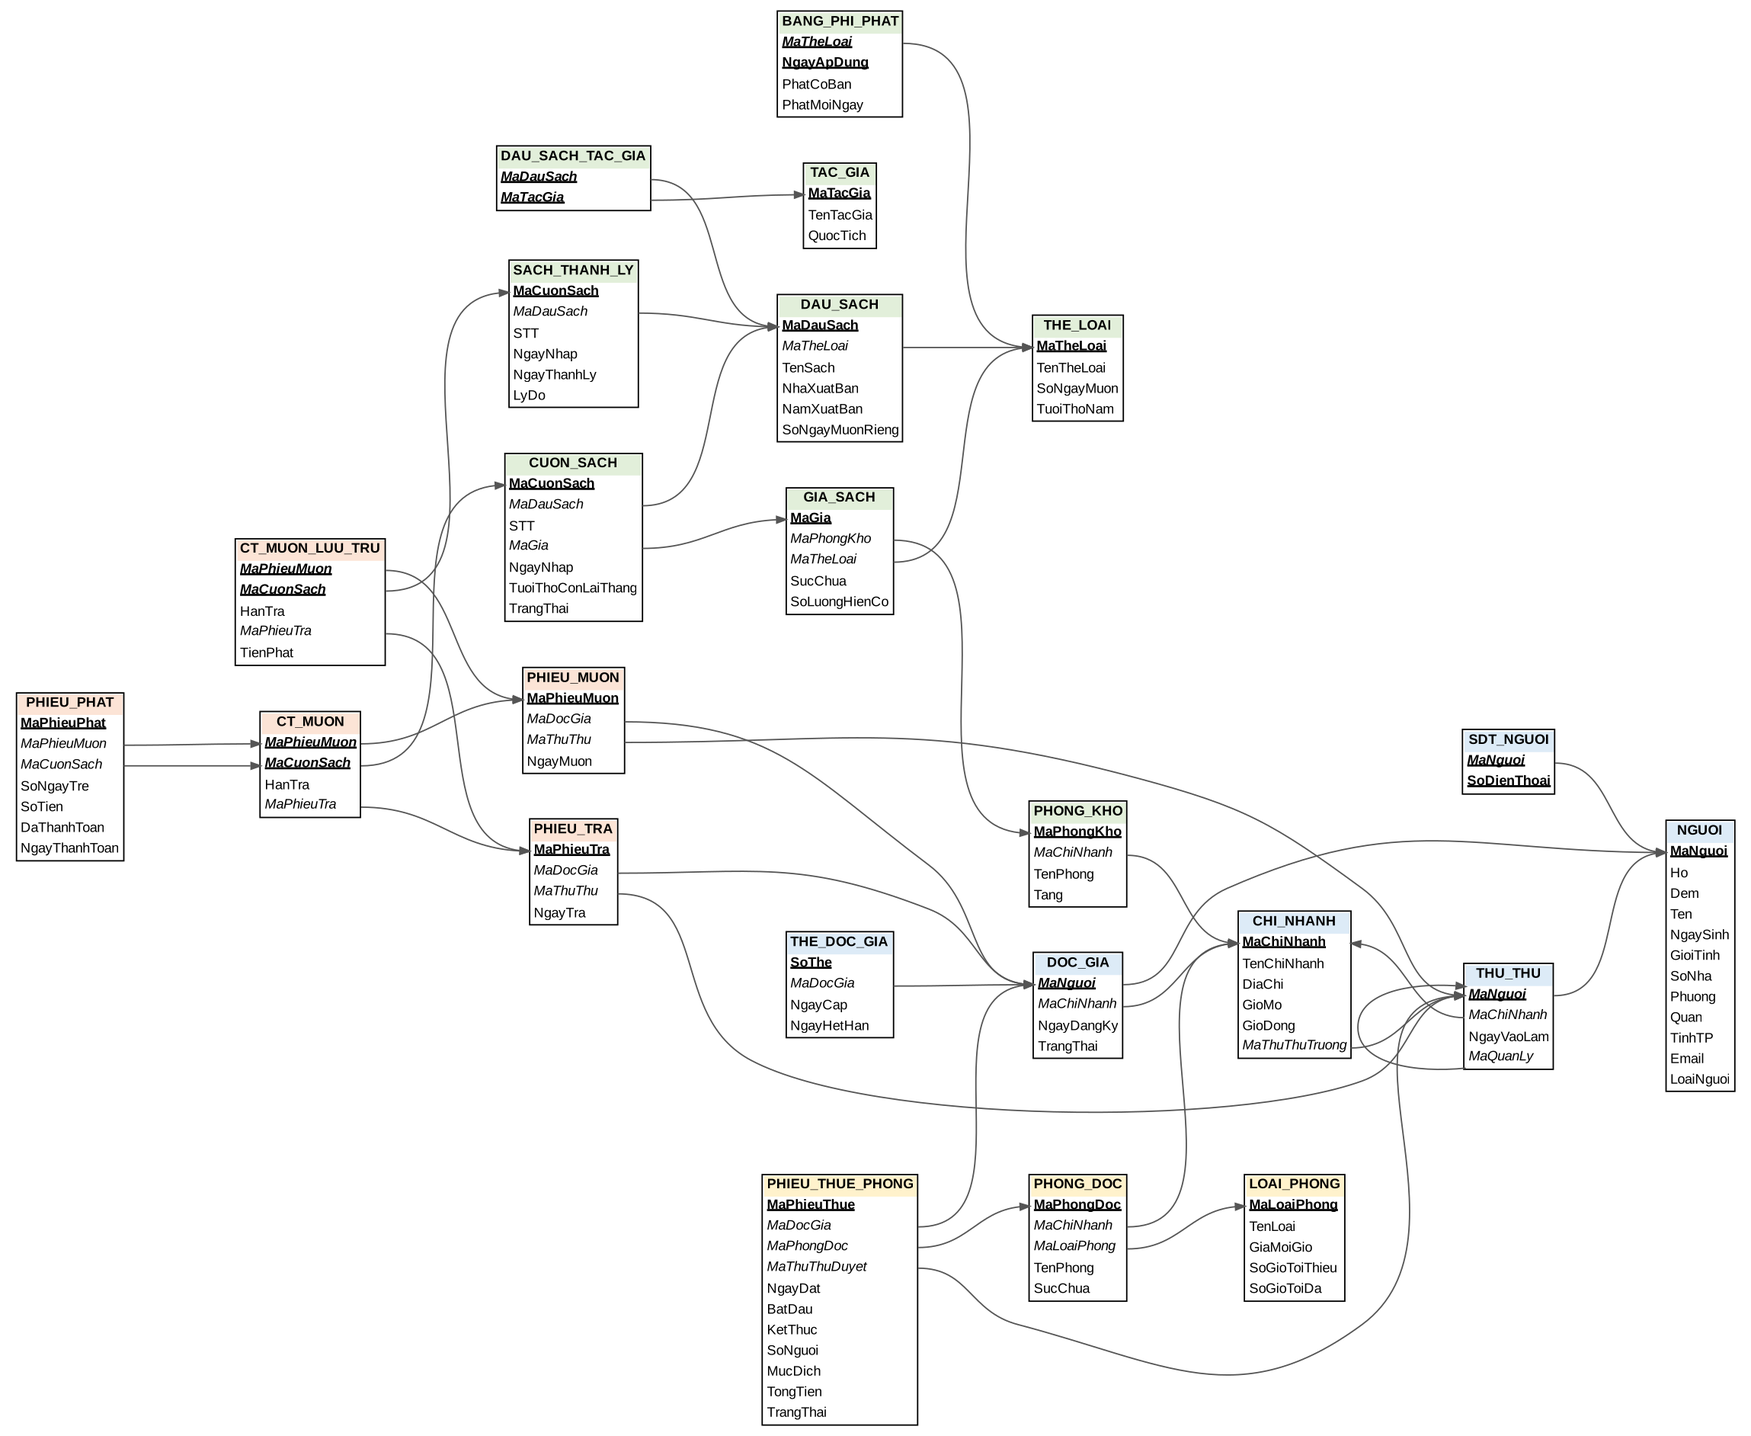
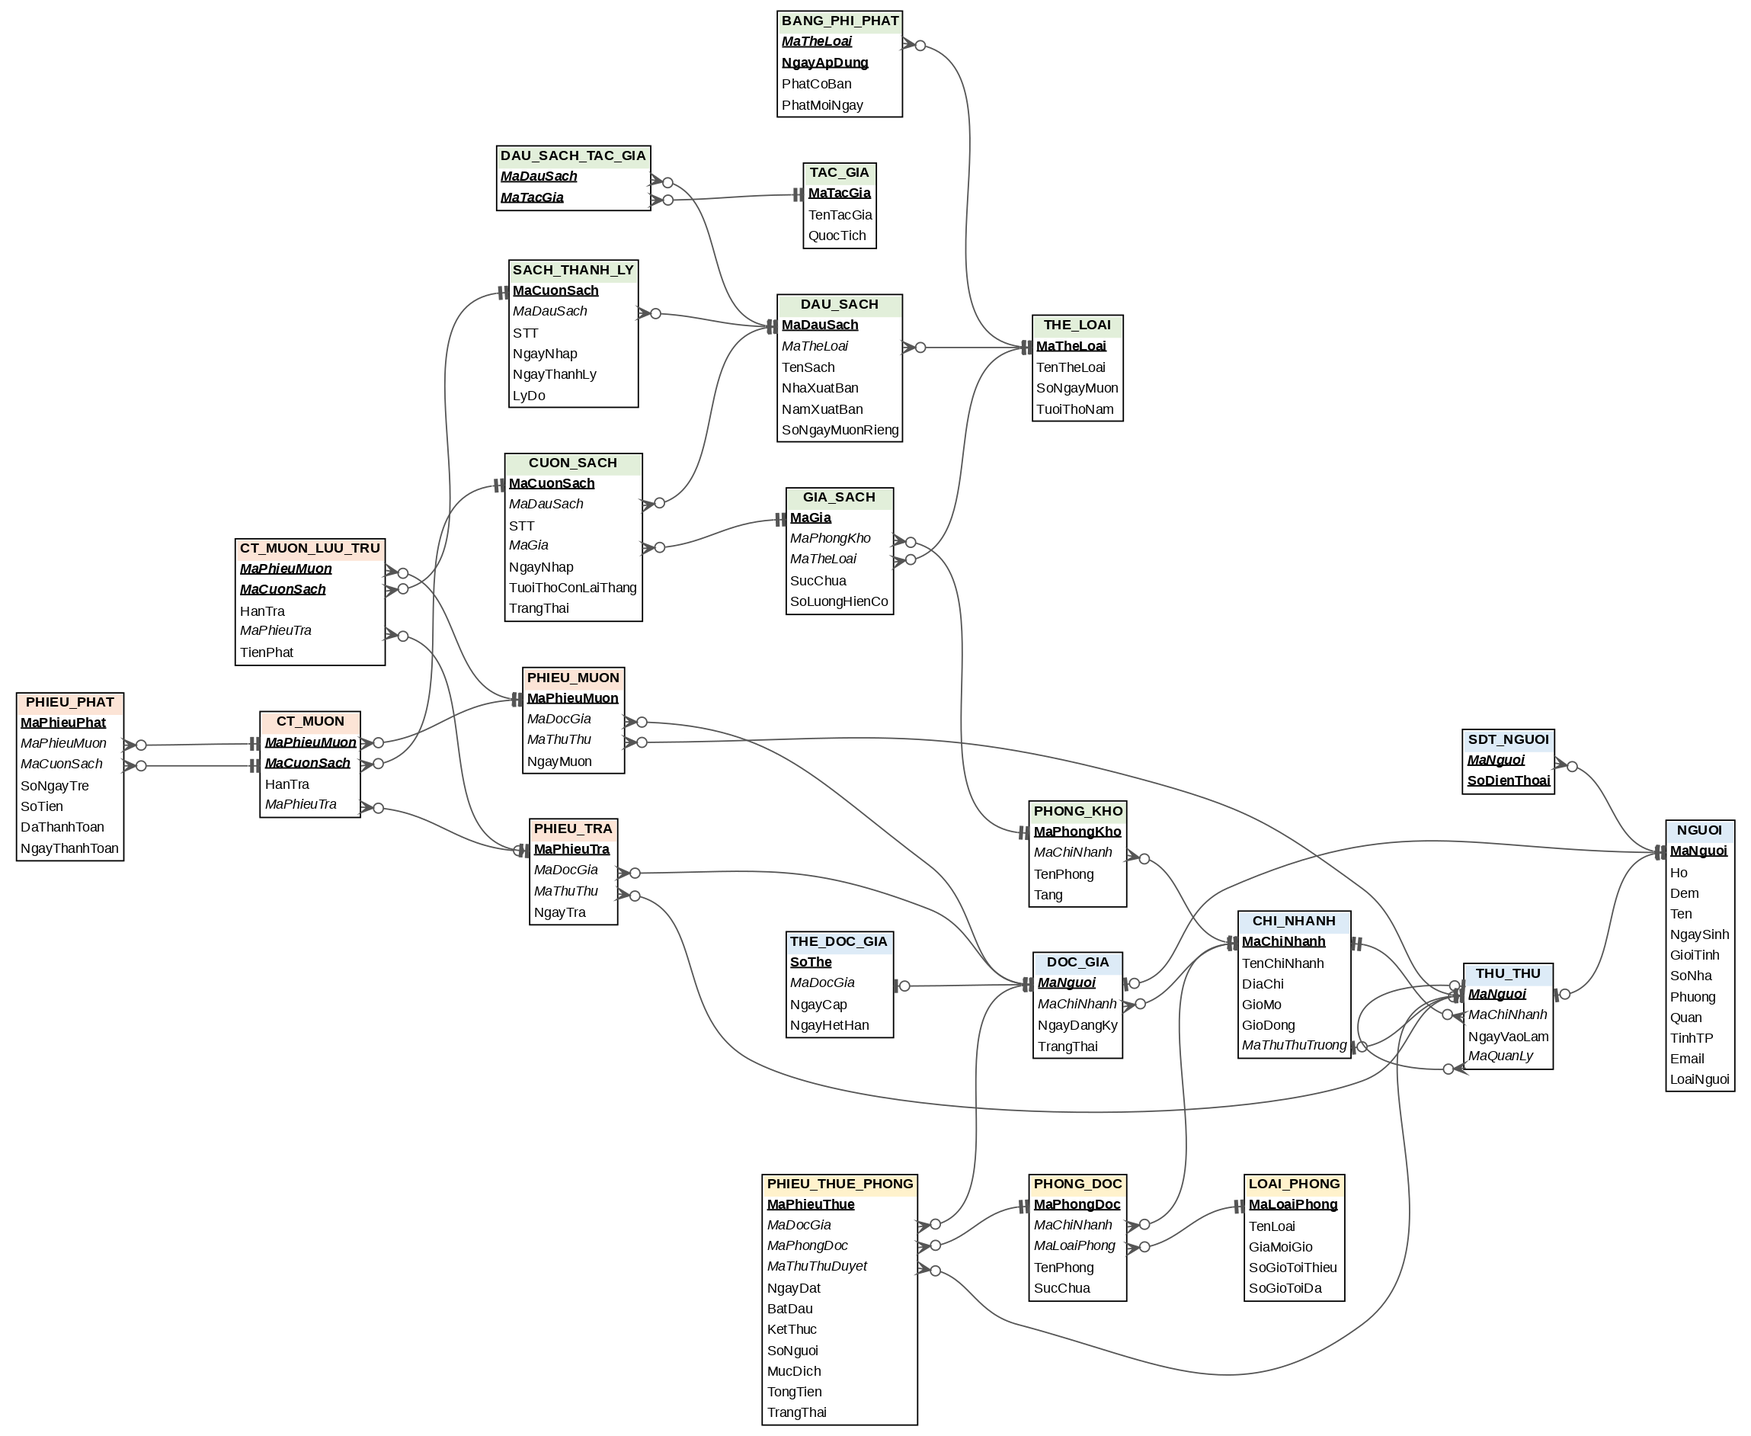
Sơ đồ: dùng ký hiệu chân gà (min..max) cho các đường nối
- ERD (ký hiệu Chen): mỗi đầu đường nối có ký hiệu 0..1, 1, 0..N, 1..N đặt sát thực thể;
  tham gia toàn bộ thể hiện bằng min = 1 ở đầu bên kia, bỏ nhãn chữ 1/N/M; giữ đường đôi cho ISA
- Ghi kèm giới hạn: tối đa 10 cuốn/phiếu (gom_sach), tối đa 50 cuốn/độc giả (giu_sach)
- Sơ đồ lược đồ quan hệ: cạnh FK → PK dùng chân gà suy ra từ UNIQUE và NULL trong information_schema
- P1: mô tả ký hiệu mới; sửa mô tả cột MaThuThuTruong (UNIQUE, tạm NULL do khóa ngoại vòng)

diff --git a/ma_nguon/erd/gen_erd.py b/ma_nguon/erd/gen_erd.py
@@ -28,8 +28,21 @@ def rel(name, label, ident=False):
     E.append(f'{name} [shape=diamond, style=filled, fillcolor="#FFE699", label="{label}"'
              + (", peripheries=2" if ident else "") + "];")
 
-def link(a, b, card="", total=False):
-    L.append(f'{a} -- {b} [label="{card}"' + (', color="black:white:black"' if total else "") + "];")
+# Ký hiệu chân gà (min..max) đặt ở đầu đường nối sát thực thể, đọc ngang qua liên kết:
+# số thực thể phía này ứng với MỘT thực thể phía bên kia. Graphviz: hình đầu tiên nằm sát node.
+CHAN_GA = {"0..1": "teeodot", "1": "teetee", "0..N": "crowodot", "1..N": "crowtee"}
+
+def link(a, b, card="", total=False, dau=None, cuoi=None, nhan_dau="", nhan_cuoi=""):
+    """Nối a -- b; dau/cuoi = ký hiệu chân gà ở đầu a / đầu b; total = đường đôi (tham gia toàn bộ)."""
+    opt = [f'label="{card}"'] if card else []
+    if dau or cuoi:
+        opt.append("dir=" + ("both" if dau and cuoi else "back" if dau else "forward"))
+        if dau: opt.append(f"arrowtail={CHAN_GA[dau]}")
+        if cuoi: opt.append(f"arrowhead={CHAN_GA[cuoi]}")
+    if nhan_dau: opt.append(f'taillabel="{nhan_dau}"')
+    if nhan_cuoi: opt.append(f'headlabel="{nhan_cuoi}"')
+    if total: opt.append('color="black:white:black"')
+    L.append(f"{a} -- {b}" + (f" [{', '.join(opt)}]" if opt else "") + ";")
 
 # ---- entities + attributes
 ent("CHI_NHANH"); attr("CHI_NHANH", "MaChiNhanh", key=True)
@@ -66,46 +79,51 @@ ent("PHONG_DOC"); attr("PHONG_DOC", "MaPhongDoc", key=True); attr("PHONG_DOC", "
 E.append('ISA [shape=invtriangle, style=filled, fillcolor="#FFFF00", label="ISA\\nd"];')
 link("NGUOI", "ISA", total=True); link("ISA", "DOC_GIA"); link("ISA", "THU_THU")
 
-# ---- relationships
+# ---- liên kết hai ngôi: (thực thể, ký hiệu ở đầu thực thể đó, nhãn vai trò)
+# Tham gia toàn bộ của A thể hiện bằng min = 1 ở ký hiệu đầu bên kia (vạch thay vì vòng tròn), không vẽ đường đôi.
 R = [
- ("r_truong", "truong_chi_nhanh", False, ("THU_THU", "1", False), ("CHI_NHANH", "1", True)),
- ("r_lamviec", "lam_viec_tai", False, ("THU_THU", "N", True), ("CHI_NHANH", "1", False)),
- ("r_quanly", "quan_ly", False, ("THU_THU", "1\\nquản lý", False), ("THU_THU", "N\\nnhân viên", False)),
- ("r_dangky", "dang_ky_tai", False, ("DOC_GIA", "N", True), ("CHI_NHANH", "1", False)),
- ("r_the", "so_huu_the", False, ("DOC_GIA", "1", True), ("THE_DOC_GIA", "1", True)),
- ("r_theloai", "thuoc_the_loai", False, ("DAU_SACH", "N", True), ("THE_LOAI", "1", False)),
- ("r_phi", "ap_dung_phi", True, ("THE_LOAI", "1", False), ("BANG_PHI_PHAT", "N", True)),
- ("r_viet", "viet", False, ("DAU_SACH", "N", False), ("TAC_GIA", "M", False)),
- ("r_gomcuon", "gom_cuon", True, ("DAU_SACH", "1", False), ("CUON_SACH", "N", True)),
- ("r_dattai", "dat_tai", False, ("CUON_SACH", "N", True), ("GIA_SACH", "1", False)),
- ("r_chuatl", "chua_the_loai", False, ("GIA_SACH", "N", True), ("THE_LOAI", "1", False)),
- ("r_namtrong", "nam_trong", False, ("GIA_SACH", "N", True), ("PHONG_KHO", "1", False)),
- ("r_khocn", "thuoc_chi_nhanh", False, ("PHONG_KHO", "N", True), ("CHI_NHANH", "1", False)),
- ("r_lapmuon", "lap_phieu_muon", False, ("THU_THU", "1", False), ("PHIEU_MUON", "N", True)),
- ("r_muonboi", "muon_boi", False, ("DOC_GIA", "1", False), ("PHIEU_MUON", "N", True)),
- ("r_lap_tra", "lap_phieu_tra", False, ("THU_THU", "1", False), ("PHIEU_TRA", "N", True)),
- ("r_traboi", "tra_boi", False, ("DOC_GIA", "1", False), ("PHIEU_TRA", "N", True)),
- ("r_loaiphong", "thuoc_loai", False, ("PHONG_DOC", "N", True), ("LOAI_PHONG", "1", False)),
- ("r_phongcn", "phong_cua", False, ("PHONG_DOC", "N", True), ("CHI_NHANH", "1", False)),
- ("r_tl", "thanh_ly_tu", False, ("SACH_THANH_LY", "N", True), ("DAU_SACH", "1", False)),
+ ("r_truong", "truong_chi_nhanh", False, ("THU_THU", "1"), ("CHI_NHANH", "0..1")),
+ ("r_lamviec", "lam_viec_tai", False, ("THU_THU", "1..N"), ("CHI_NHANH", "1")),
+ ("r_quanly", "quan_ly", False, ("THU_THU", "0..1"), ("THU_THU", "0..N")),   # vai trò ghi ở giữa hai nhánh, xem dưới
+ ("r_dangky", "dang_ky_tai", False, ("DOC_GIA", "0..N"), ("CHI_NHANH", "1")),
+ ("r_the", "so_huu_the", False, ("DOC_GIA", "1"), ("THE_DOC_GIA", "1")),
+ ("r_theloai", "thuoc_the_loai", False, ("DAU_SACH", "0..N"), ("THE_LOAI", "1")),
+ ("r_phi", "ap_dung_phi", True, ("THE_LOAI", "1"), ("BANG_PHI_PHAT", "1..N")),
+ ("r_viet", "viet", False, ("DAU_SACH", "1..N"), ("TAC_GIA", "0..N")),
+ ("r_gomcuon", "gom_cuon", True, ("DAU_SACH", "1"), ("CUON_SACH", "0..N")),
+ ("r_dattai", "dat_tai", False, ("CUON_SACH", "0..N"), ("GIA_SACH", "1")),
+ ("r_chuatl", "chua_the_loai", False, ("GIA_SACH", "0..N"), ("THE_LOAI", "1")),
+ ("r_namtrong", "nam_trong", False, ("GIA_SACH", "0..N"), ("PHONG_KHO", "1")),
+ ("r_khocn", "thuoc_chi_nhanh", False, ("PHONG_KHO", "0..N"), ("CHI_NHANH", "1")),
+ ("r_lapmuon", "lap_phieu_muon", False, ("THU_THU", "1"), ("PHIEU_MUON", "0..N")),
+ ("r_muonboi", "muon_boi", False, ("DOC_GIA", "1"), ("PHIEU_MUON", "0..N")),
+ ("r_lap_tra", "lap_phieu_tra", False, ("THU_THU", "1"), ("PHIEU_TRA", "0..N")),
+ ("r_traboi", "tra_boi", False, ("DOC_GIA", "1"), ("PHIEU_TRA", "0..N")),
+ ("r_loaiphong", "thuoc_loai", False, ("PHONG_DOC", "0..N"), ("LOAI_PHONG", "1")),
+ ("r_phongcn", "phong_cua", False, ("PHONG_DOC", "0..N"), ("CHI_NHANH", "1")),
+ ("r_tl", "thanh_ly_tu", False, ("SACH_THANH_LY", "0..N"), ("DAU_SACH", "1")),
 ]
-for rid, lab, ident, (a, ca, ta), (b, cb, tb) in R:
-    rel(rid, lab, ident); link(a, rid, ca, ta); link(rid, b, cb, tb)
+VAI_TRO = {"r_quanly": ("quản lý", "nhân viên")}   # liên kết đệ quy: tên vai trò trên từng nhánh
+for rid, lab, ident, (a, ka), (b, kb) in R:
+    rel(rid, lab, ident)
+    va, vb = VAI_TRO.get(rid, ("", ""))
+    link(a, rid, va, dau=ka)
+    link(rid, b, vb, cuoi=kb)
 
-# ---- aggregation: gom_sach (PHIEU_MUON – CUON_SACH) with HanTra
+# ---- kết hợp gom_sach (PHIEU_MUON – CUON_SACH, thuộc tính HanTra): mỗi phiếu 1..10 cuốn
 E.append('r_gomsach [shape=diamond, style="filled,dashed", fillcolor="#FFE699", penwidth=2, label="gom_sach\\n[kết hợp]"];')
-link("PHIEU_MUON", "r_gomsach", "(1,10)", True); link("r_gomsach", "CUON_SACH", "M")
+link("PHIEU_MUON", "r_gomsach", dau="0..N"); link("r_gomsach", "CUON_SACH", cuoi="1..N", nhan_cuoi="tối đa 10")
 attr("r_gomsach", "HanTra")
-rel("r_tralai", "tra_lai"); link("PHIEU_TRA", "r_tralai", "1", True); link("r_tralai", "r_gomsach", "N  (vào kết hợp)")
-rel("r_biphat", "bi_phat"); link("PHIEU_PHAT", "r_biphat", "1", True); link("r_biphat", "r_gomsach", "1  (vào kết hợp)")
-rel("r_giu", "giu_sach\\n(suy ra)"); link("DOC_GIA", "r_giu", "(0,50)"); link("r_giu", "CUON_SACH", "")
+rel("r_tralai", "tra_lai"); link("PHIEU_TRA", "r_tralai", dau="0..1"); link("r_tralai", "r_gomsach", cuoi="1..N")
+rel("r_biphat", "bi_phat"); link("PHIEU_PHAT", "r_biphat", dau="0..1"); link("r_biphat", "r_gomsach", cuoi="1")
+rel("r_giu", "giu_sach\\n(suy ra, ≤ 50)"); link("DOC_GIA", "r_giu", dau="0..1"); link("r_giu", "CUON_SACH", cuoi="0..N")
 
 # ---- liên kết 3 ngôi thue_phong (DOC_GIA – PHONG_DOC – THU_THU duyệt), thuộc tính đặt trên liên kết
 E.append('r_thue [shape=diamond, style=filled, fillcolor="#F4B183", penwidth=2, label="thue_phong\\n(3 ngôi)"];')
-link("DOC_GIA", "r_thue", "M"); link("PHONG_DOC", "r_thue", "N"); link("THU_THU", "r_thue", "1\\n(duyệt)")
+link("DOC_GIA", "r_thue", dau="0..N"); link("PHONG_DOC", "r_thue", dau="0..N"); link("THU_THU", "r_thue", dau="1", nhan_dau="duyệt")
 for x in ["NgayDat", "BatDau", "KetThuc", "SoNguoi", "MucDich", "TrangThai"]: attr("r_thue", x)
 attr("r_thue", "TongTien", derived=True)
 
 out = ["graph ERD {", 'graph [layout=neato, overlap=false, sep="+6", splines=true, fontname="Arial", outputorder=edgesfirst];',
-       'node [fontname="Arial", fontsize=10]; edge [fontname="Arial", fontsize=9];'] + E + L + ["}"]
+       'node [fontname="Arial", fontsize=10]; edge [fontname="Arial", fontsize=9, arrowsize=1.1, labelfontsize=9, labeldistance=2.8];'] + E + L + ["}"]
 open(sys.argv[1], "w").write("\n".join(out))

diff --git a/ma_nguon/baocao/assemble.py b/ma_nguon/baocao/assemble.py
@@ -32,7 +32,7 @@ o.append(ha_cap(doan(P1, "### 1.1", "## 2.")))
 c2 = ha_cap(doan(P1, "### 2.1"))
 c2 = re.sub(r"## 2\.4 Sơ đồ\n\n.*", """## 2.4 Sơ đồ E-R
 
-Sơ đồ dùng ký hiệu Chen như bài giảng: chữ nhật = tập thực thể, chữ nhật kép = thực thể yếu, thoi = liên kết, thoi kép = liên kết xác định, ellipse = thuộc tính (gạch chân = khóa, gạch chân mảnh = khóa bán phần, nét đứt = dẫn xuất, viền kép = đa trị), tam giác ISA có chữ d = phân tách (disjoint), đường đôi = tham gia toàn bộ, thoi nét đứt gom_sach = kết hợp (aggregation), thoi màu cam thue_phong = liên kết 3 ngôi giữa DOC_GIA, PHONG_DOC và THU_THU (thủ thư duyệt) mang các thuộc tính của lượt thuê.
+Sơ đồ dùng ký hiệu Chen như bài giảng: chữ nhật = tập thực thể, chữ nhật kép = thực thể yếu, thoi = liên kết, thoi kép = liên kết xác định, ellipse = thuộc tính (gạch chân = khóa, gạch chân mảnh = khóa bán phần, nét đứt = dẫn xuất, viền kép = đa trị), tam giác ISA có chữ d = phân tách (disjoint), thoi nét đứt gom_sach = kết hợp (aggregation), thoi màu cam thue_phong = liên kết 3 ngôi giữa DOC_GIA, PHONG_DOC và THU_THU (thủ thư duyệt) mang các thuộc tính của lượt thuê. Ký hiệu đường nối theo chuẩn chân gà (crow's foot), đặt ở đầu sát thực thể và đọc ngang qua liên kết (số thực thể phía đó ứng với một thực thể phía bên kia): vạch + vòng tròn = không hoặc một (0..1); hai vạch = một và chỉ một (1); chân gà + vòng tròn = không hoặc nhiều (0..N); chân gà + vạch = một hoặc nhiều (1..N). Vạch (min = 1) ở đầu bên kia thể hiện thực thể tham gia toàn bộ, vòng tròn (min = 0) là tham gia một phần. Giới hạn cụ thể ghi kèm: tối đa 10 cuốn mỗi phiếu (gom_sach), tối đa 50 cuốn mỗi độc giả (giu_sach). Riêng tổng quát hóa ISA dùng đường đôi = tổng quát hóa đầy đủ.
 
 ![Hình 2.1. Lược đồ E-R của hệ thống quản lý thư viện](../erd/erd_doc.png)
 """, c2, flags=re.S)
@@ -43,7 +43,7 @@ o.append("# CHƯƠNG 3. LƯỢC ĐỒ QUAN HỆ VÀ CHUẨN HÓA\n")
 o.append(doan(P2, "Ký hiệu:"))
 o.append("""## 3.7 Sơ đồ lược đồ quan hệ
 
-Sơ đồ được sinh tự động từ `information_schema` của CSDL đã cài đặt (script `gen_tudien.py`): mỗi khung là một quan hệ, khóa chính in đậm gạch chân, khóa ngoại in nghiêng, mũi tên đi từ khóa ngoại đến khóa chính được tham chiếu. Màu nền tiêu đề chia 4 nhóm nghiệp vụ: con người (xanh dương), sách và kho (xanh lá), mượn trả (cam), phòng đọc (vàng).
+Sơ đồ được sinh tự động từ `information_schema` của CSDL đã cài đặt (script `gen_tudien.py`): mỗi khung là một quan hệ, khóa chính in đậm gạch chân, khóa ngoại in nghiêng, mỗi cạnh nối cột khóa ngoại với khóa chính được tham chiếu và dùng ký hiệu chân gà suy ra từ ràng buộc thật: đầu bảng chứa khóa ngoại là không hoặc nhiều (không hoặc một nếu cột khóa ngoại là UNIQUE), đầu bảng được tham chiếu là một và chỉ một (không hoặc một nếu khóa ngoại cho phép NULL). Màu nền tiêu đề chia 4 nhóm nghiệp vụ: con người (xanh dương), sách và kho (xanh lá), mượn trả (cam), phòng đọc (vàng).
 
 ![Hình 3.1. Sơ đồ lược đồ quan hệ với các liên kết khóa chính – khóa ngoại](../erd/luoc_do_quan_he.png)
 """)

diff --git a/ma_nguon/baocao/gen_tudien.py b/ma_nguon/baocao/gen_tudien.py
@@ -78,7 +78,7 @@ NHOM = {"Con người": ["NGUOI", "SDT_NGUOI", "DOC_GIA", "THE_DOC_GIA", "THU_TH
         "Mượn trả": ["PHIEU_MUON", "PHIEU_TRA", "CT_MUON", "PHIEU_PHAT", "CT_MUON_LUU_TRU"], "Phòng đọc": ["LOAI_PHONG", "PHONG_DOC", "PHIEU_THUE_PHONG"]}
 MAU = {"Con người": "#DDEBF7", "Sách và kho": "#E2EFDA", "Mượn trả": "#FCE4D6", "Phòng đọc": "#FFF2CC"}
 d = ['digraph LDQH {', 'graph [rankdir=LR, nodesep=0.35, ranksep=0.9, fontname="Arial", splines=true, concentrate=false];',
-     'node [shape=plaintext, fontname="Arial", fontsize=10]; edge [arrowhead=normal, arrowsize=0.7, color="#555555"];']
+     'node [shape=plaintext, fontname="Arial", fontsize=10]; edge [arrowsize=0.9, color="#555555"];']
 for g, ds in NHOM.items():
     for t in ds:
         fk = fk_cua(t)
@@ -89,12 +89,19 @@ for g, ds in NHOM.items():
             if key == "PRI": txt = f"<U><B>{txt}</B></U>"
             hang.append(f'<TR><TD ALIGN="LEFT" PORT="{col}">{txt}</TD></TR>')
         d.append(f'{t} [label=<<TABLE BORDER="1" CELLBORDER="0" CELLSPACING="0" CELLPADDING="2" BGCOLOR="white"><TR><TD BGCOLOR="{MAU[g]}"><B>{t}</B></TD></TR>{"".join(hang)}</TABLE>>];')
+# Cạnh FK → PK dùng ký hiệu chân gà, suy ra từ ràng buộc thật: đầu bảng FK là 0..N (0..1 nếu cột FK là UNIQUE/PK riêng),
+# đầu bảng PK là "một và chỉ một" (0..1 nếu cột FK cho phép NULL)
+DUY_NHAT = {(t, c) for t, c in q("""SELECT TABLE_NAME, MAX(COLUMN_NAME) FROM information_schema.STATISTICS
+    WHERE TABLE_SCHEMA='QLTV' AND NON_UNIQUE=0 GROUP BY TABLE_NAME, INDEX_NAME HAVING COUNT(*) = 1""")}
+CO_NULL = {(t, c) for t, c in q("SELECT TABLE_NAME, COLUMN_NAME FROM information_schema.COLUMNS WHERE TABLE_SCHEMA='QLTV' AND IS_NULLABLE='YES'")}
 for t in BANG:
     seen = set()
     for col, (rt, rc) in fk_cua(t).items():
         if (rt, col) in seen: continue
         seen.add((rt, col))
-        d.append(f'{t}:{col} -> {rt}:{rc};')
+        duoi = "teeodot" if (t, col) in DUY_NHAT else "crowodot"
+        dau = "teeodot" if (t, col) in CO_NULL else "teetee"
+        d.append(f'{t}:{col} -> {rt}:{rc} [dir=both, arrowtail={duoi}, arrowhead={dau}];')
 d.append("}")
 open("../erd/luoc_do_quan_he.dot", "w", encoding="utf-8").write("\n".join(d))
 subprocess.run("dot -Tpng -Gdpi=130 ../erd/luoc_do_quan_he.dot -o ../erd/luoc_do_quan_he.png", shell=True, check=True)

diff --git a/tai_lieu/P1_phan_tich_ERD.md b/tai_lieu/P1_phan_tich_ERD.md
@@ -58,7 +58,7 @@ Tại mỗi chi nhánh:
 | Mỗi phiếu trả ≥ 1 cuốn | Đề | Transaction TX2 |
 | Mỗi giá ≤ sức chứa (100) | Nhóm | CHECK + trigger TRG6 |
 | Số người thuê ≤ sức chứa phòng | Nhóm | Transaction TX7 |
-| Mỗi chi nhánh đúng 1 thủ thư trưởng; 1 thủ thư trưởng 1 chi nhánh | Nhóm | NOT NULL + UNIQUE |
+| Mỗi chi nhánh đúng 1 thủ thư trưởng; 1 thủ thư trưởng 1 chi nhánh | Nhóm | UNIQUE + FK; cột tạm cho phép NULL vì khóa ngoại vòng CHI_NHANH ↔ THU_THU (MariaDB không có ràng buộc trì hoãn), được gán ngay sau khi tạo thủ thư; không xóa được thủ thư đang là trưởng (E403) |
 | Mỗi độc giả đúng 1 thẻ | Nhóm | UNIQUE trên khóa ngoại |
 | Mỗi người ≥ 1 số điện thoại | Nhóm | Transaction TX6 |
 
@@ -139,8 +139,8 @@ Tại mỗi chi nhánh:
 | ISA (disjoint, toàn bộ) | NGUOI → DOC_GIA, THU_THU |
 | Kết hợp (aggregation) | tra_lai, bi_phat trên [gom_sach] |
 | Ràng buộc (min,max) | (1,10) cuốn/phiếu; (0,50) cuốn/độc giả |
-| Tham gia toàn bộ / một phần | CHI_NHANH – truong_chi_nhanh (toàn bộ); THU_THU (một phần) |
+| Tham gia toàn bộ / một phần | CHI_NHANH – truong_chi_nhanh (toàn bộ: hai vạch ở đầu THU_THU); THU_THU (một phần: vòng tròn ở đầu CHI_NHANH) |
 
 ### 2.4 Sơ đồ
 
-Sơ đồ ERD ký hiệu Chen được vẽ bằng Graphviz (`btl/erd/erd.dot`), xuất ảnh ở phần P10 để đưa vào báo cáo: chữ nhật = tập thực thể, chữ nhật kép = thực thể yếu, thoi = liên kết, thoi kép = liên kết xác định, ellipse = thuộc tính (gạch chân = khóa, nét đứt = dẫn xuất, viền kép = đa trị), tam giác ISA, hộp nét đứt bao quanh gom_sach = kết hợp.
+Sơ đồ ERD ký hiệu Chen được vẽ bằng Graphviz (`btl/erd/erd.dot`), xuất ảnh ở phần P10 để đưa vào báo cáo: chữ nhật = tập thực thể, chữ nhật kép = thực thể yếu, thoi = liên kết, thoi kép = liên kết xác định, ellipse = thuộc tính (gạch chân = khóa, nét đứt = dẫn xuất, viền kép = đa trị), tam giác ISA, hộp nét đứt bao quanh gom_sach = kết hợp. Ký hiệu đường nối theo chuẩn chân gà (crow's foot), đặt ở đầu sát thực thể và đọc ngang qua liên kết (số thực thể phía đó ứng với một thực thể phía bên kia): vạch + vòng tròn = không hoặc một (0..1); hai vạch = một và chỉ một (1); chân gà + vòng tròn = không hoặc nhiều (0..N); chân gà + vạch = một hoặc nhiều (1..N). Vạch (min = 1) ở đầu bên kia thể hiện thực thể tham gia toàn bộ, vòng tròn (min = 0) là tham gia một phần. Giới hạn cụ thể ghi kèm: tối đa 10 cuốn mỗi phiếu (gom_sach), tối đa 50 cuốn mỗi độc giả (giu_sach). Riêng tổng quát hóa ISA dùng đường đôi = tổng quát hóa đầy đủ.
